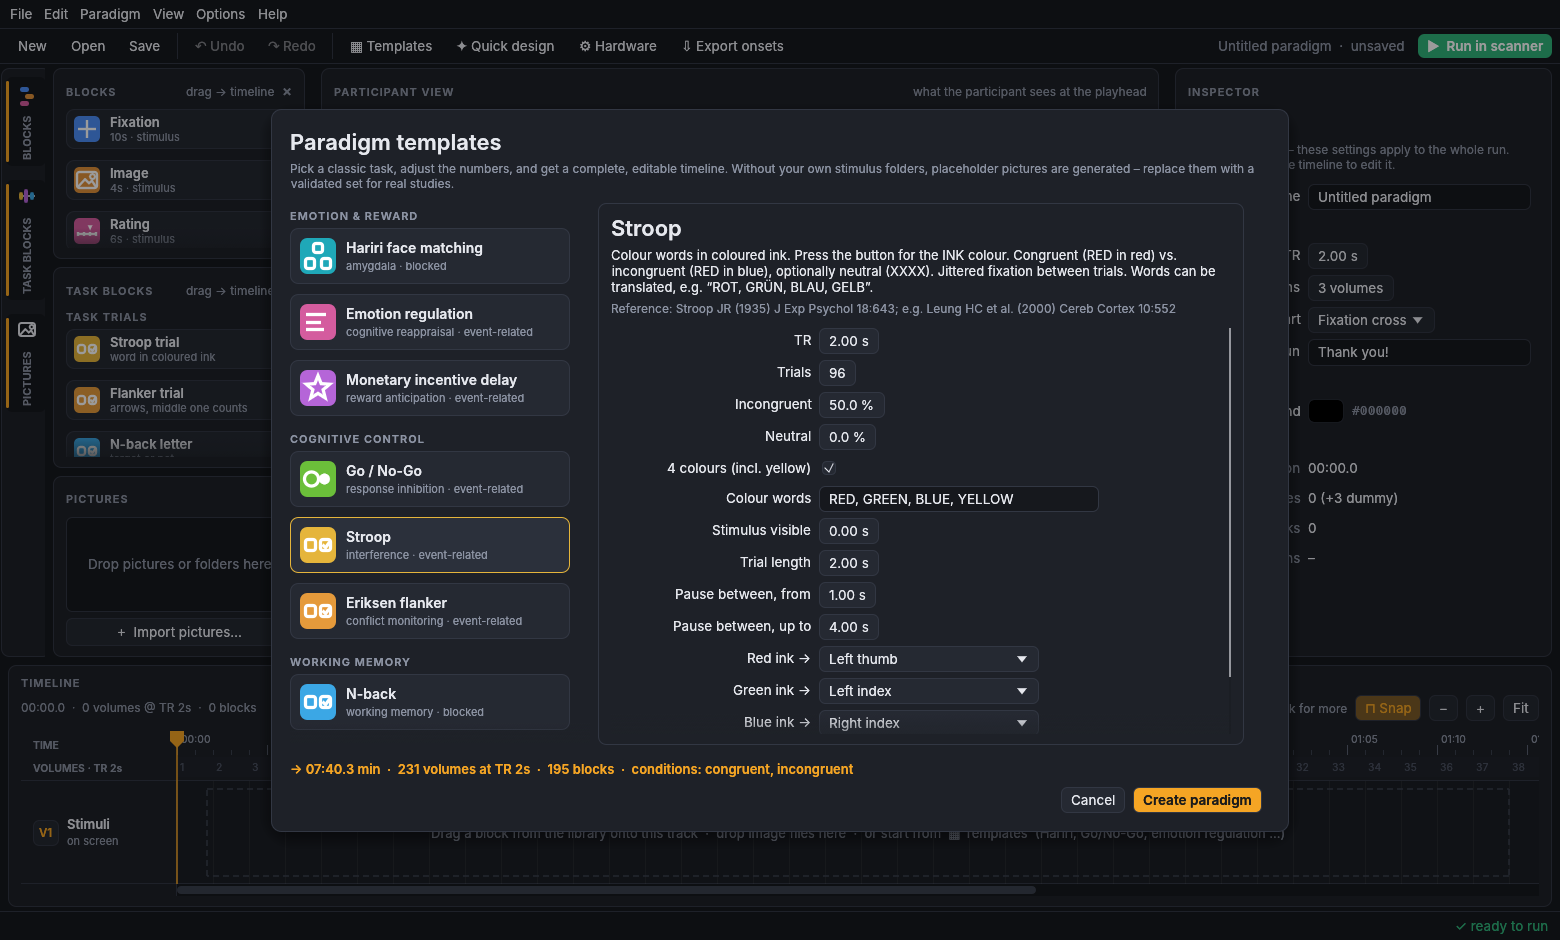
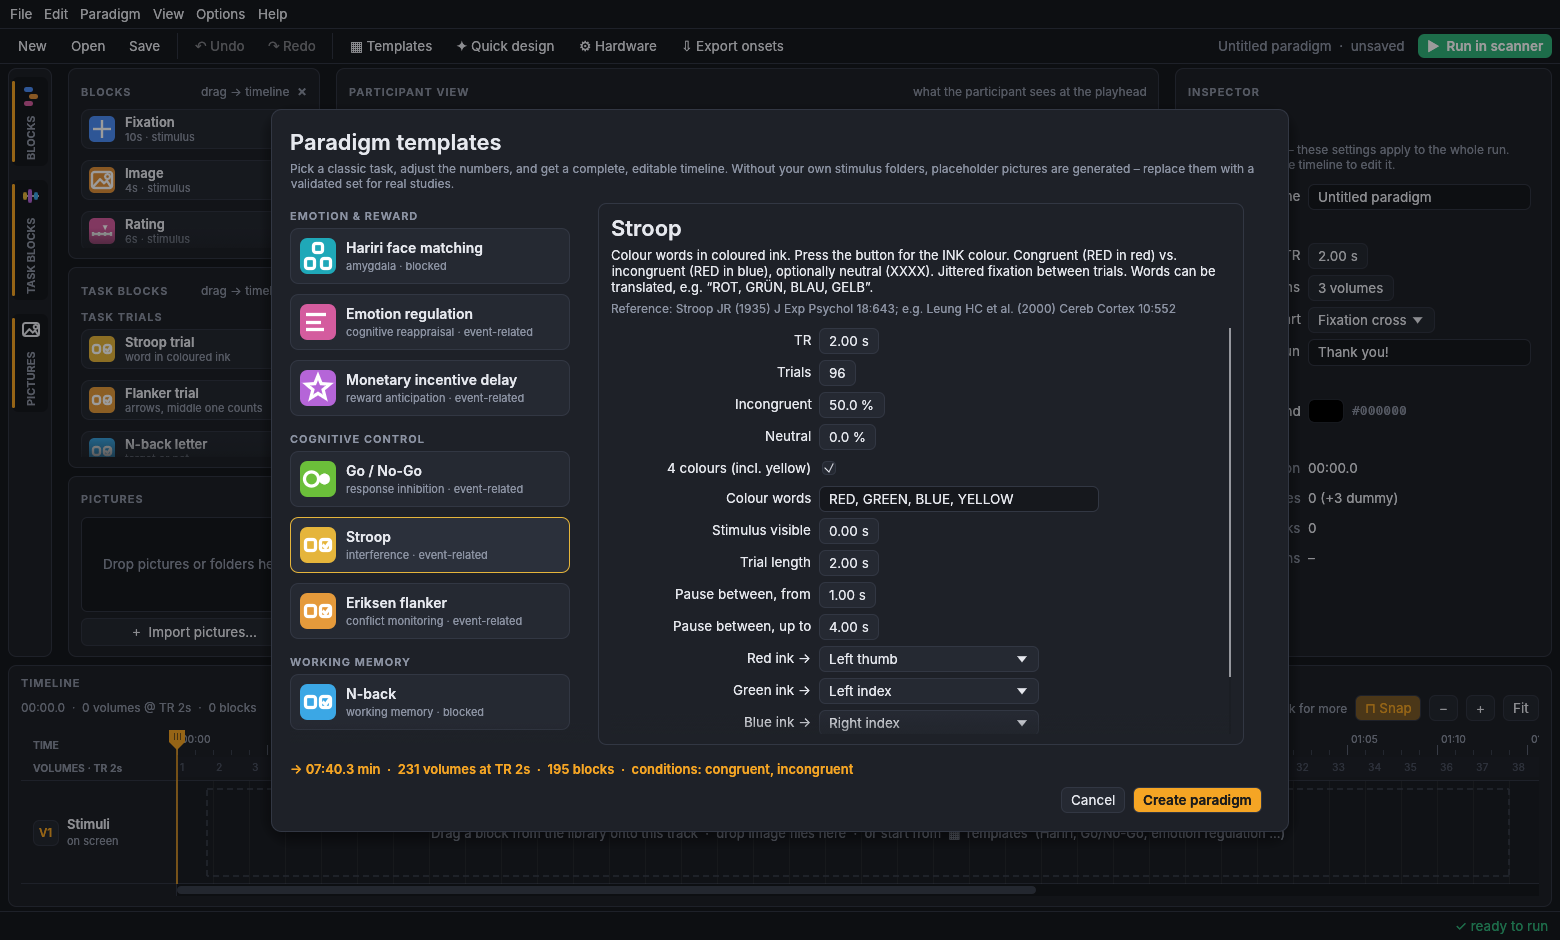
Release 0.3.2: tool strip framed and aligned with the other panels
The tool strip's buttons were wider than the room inside its frame, so the
frame spilled out to the left (past the edge the timeline and the other
panels line up on) and was clipped on the right, leaving it open. The
buttons now fill the frame exactly and the strip panel is sized from
them: it is a closed, rounded panel that lines up with the timeline on the
left and with the library panels at the top and bottom, with the same
16 px gaps as everywhere else.

Screenshots regenerated.

Claude-Session: https://claude.ai/code/session_01DjG5YSPbhFReU8LE9xNKWw

diff --git a/src/app.rs b/src/app.rs
@@ -43,6 +43,11 @@ enum Popup {
 }
 
 /// Scripted states for generating documentation screenshots (`--screenshot out.png --scene name`).
+
+/// Width of the buttons in the tool strip and the padding around them.
+const STRIP_BUTTON_W: f32 = 36.0;
+const STRIP_PAD: f32 = 3.0;
+
 pub struct ScreenshotPlan {
     pub out: PathBuf,
     pub scene: String,
@@ -777,17 +782,19 @@ impl App {
     /// The tool strip on the left: always visible, one button per library panel. Minimised panels
     /// live here; a click brings them back (or minimises an open one), like in an image or video editor.
     fn tool_strip(&mut self, ui: &mut Ui) {
-        theme::panel_frame().inner_margin(egui::Margin::symmetric(4, 8)).show(ui, |ui| {
+        // the strip is a framed panel like the others: the panel's 8 px margin keeps the same gaps,
+        // and its buttons fill the frame exactly (nothing overflows and gets clipped)
+        theme::panel_frame().inner_margin(egui::Margin::symmetric(STRIP_PAD as i8, 8)).show(ui, |ui| {
             ui.set_width(ui.available_width());
             ui.set_height(ui.available_height().max(0.0));
-            ui.vertical_centered(|ui| {
+            ui.vertical(|ui| {
                 let n = self.lib.media.len();
                 for (i, (key, title, _)) in panels::PANELS.iter().enumerate() {
                     let open = self.lib.is_open(key);
                     let label = title.to_uppercase();
                     let g = ui.painter().layout_no_wrap(label, theme::bold(11.0), TEXT_DIM);
                     let h = 32.0 + g.size().x + 12.0;
-                    let (r, resp) = ui.allocate_exact_size(Vec2::new(40.0, h), egui::Sense::click());
+                    let (r, resp) = ui.allocate_exact_size(Vec2::new(STRIP_BUTTON_W, h), egui::Sense::click());
                     let hovered = resp.hovered();
                     if open || hovered {
                         ui.painter().rect_filled(r, egui::CornerRadius::same(6), if hovered { theme::PANEL_2 } else { theme::BG });
@@ -1099,7 +1106,8 @@ impl App {
         egui::Panel::left("tool_strip")
             .frame(frame)
             .resizable(false)
-            .exact_size(52.0)
+            // panel margin + frame margin + stroke on both sides around the buttons
+            .exact_size(STRIP_BUTTON_W + 2.0 * (8.0 + STRIP_PAD + 1.0))
             .show_separator_line(false)
             .show(ui, |ui| self.tool_strip(ui));
         if self.lib.any_open() {
